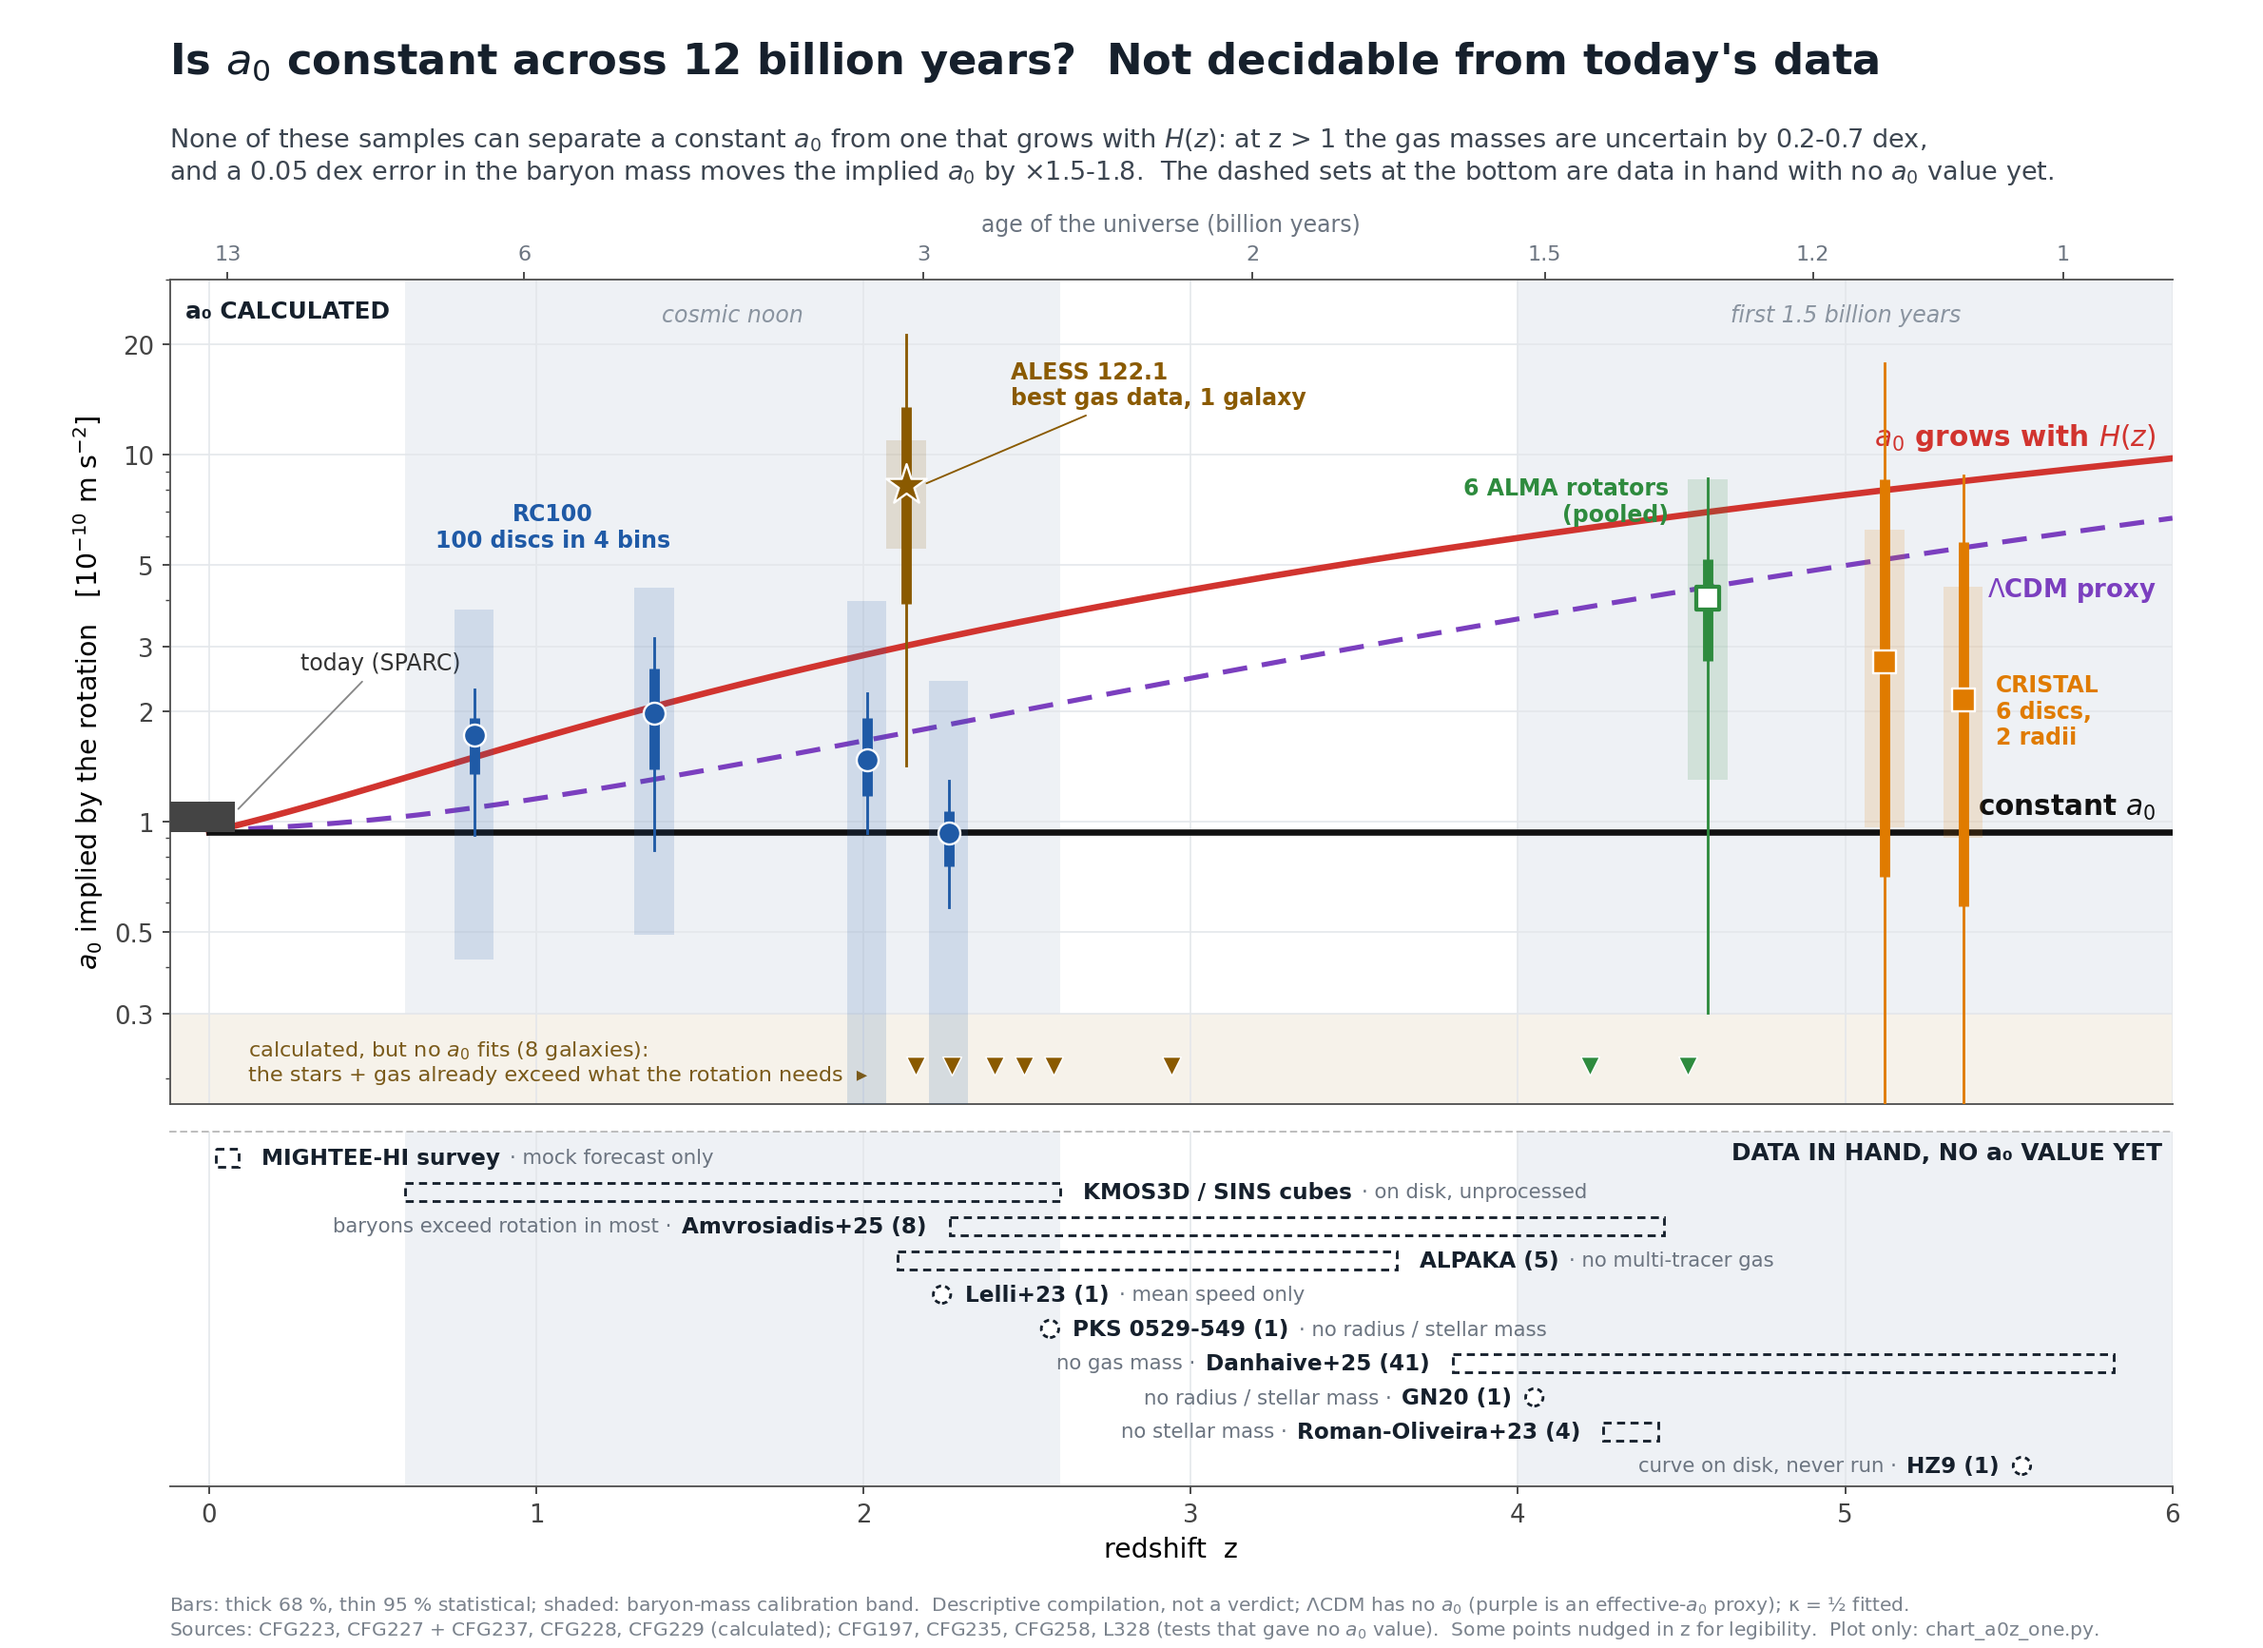
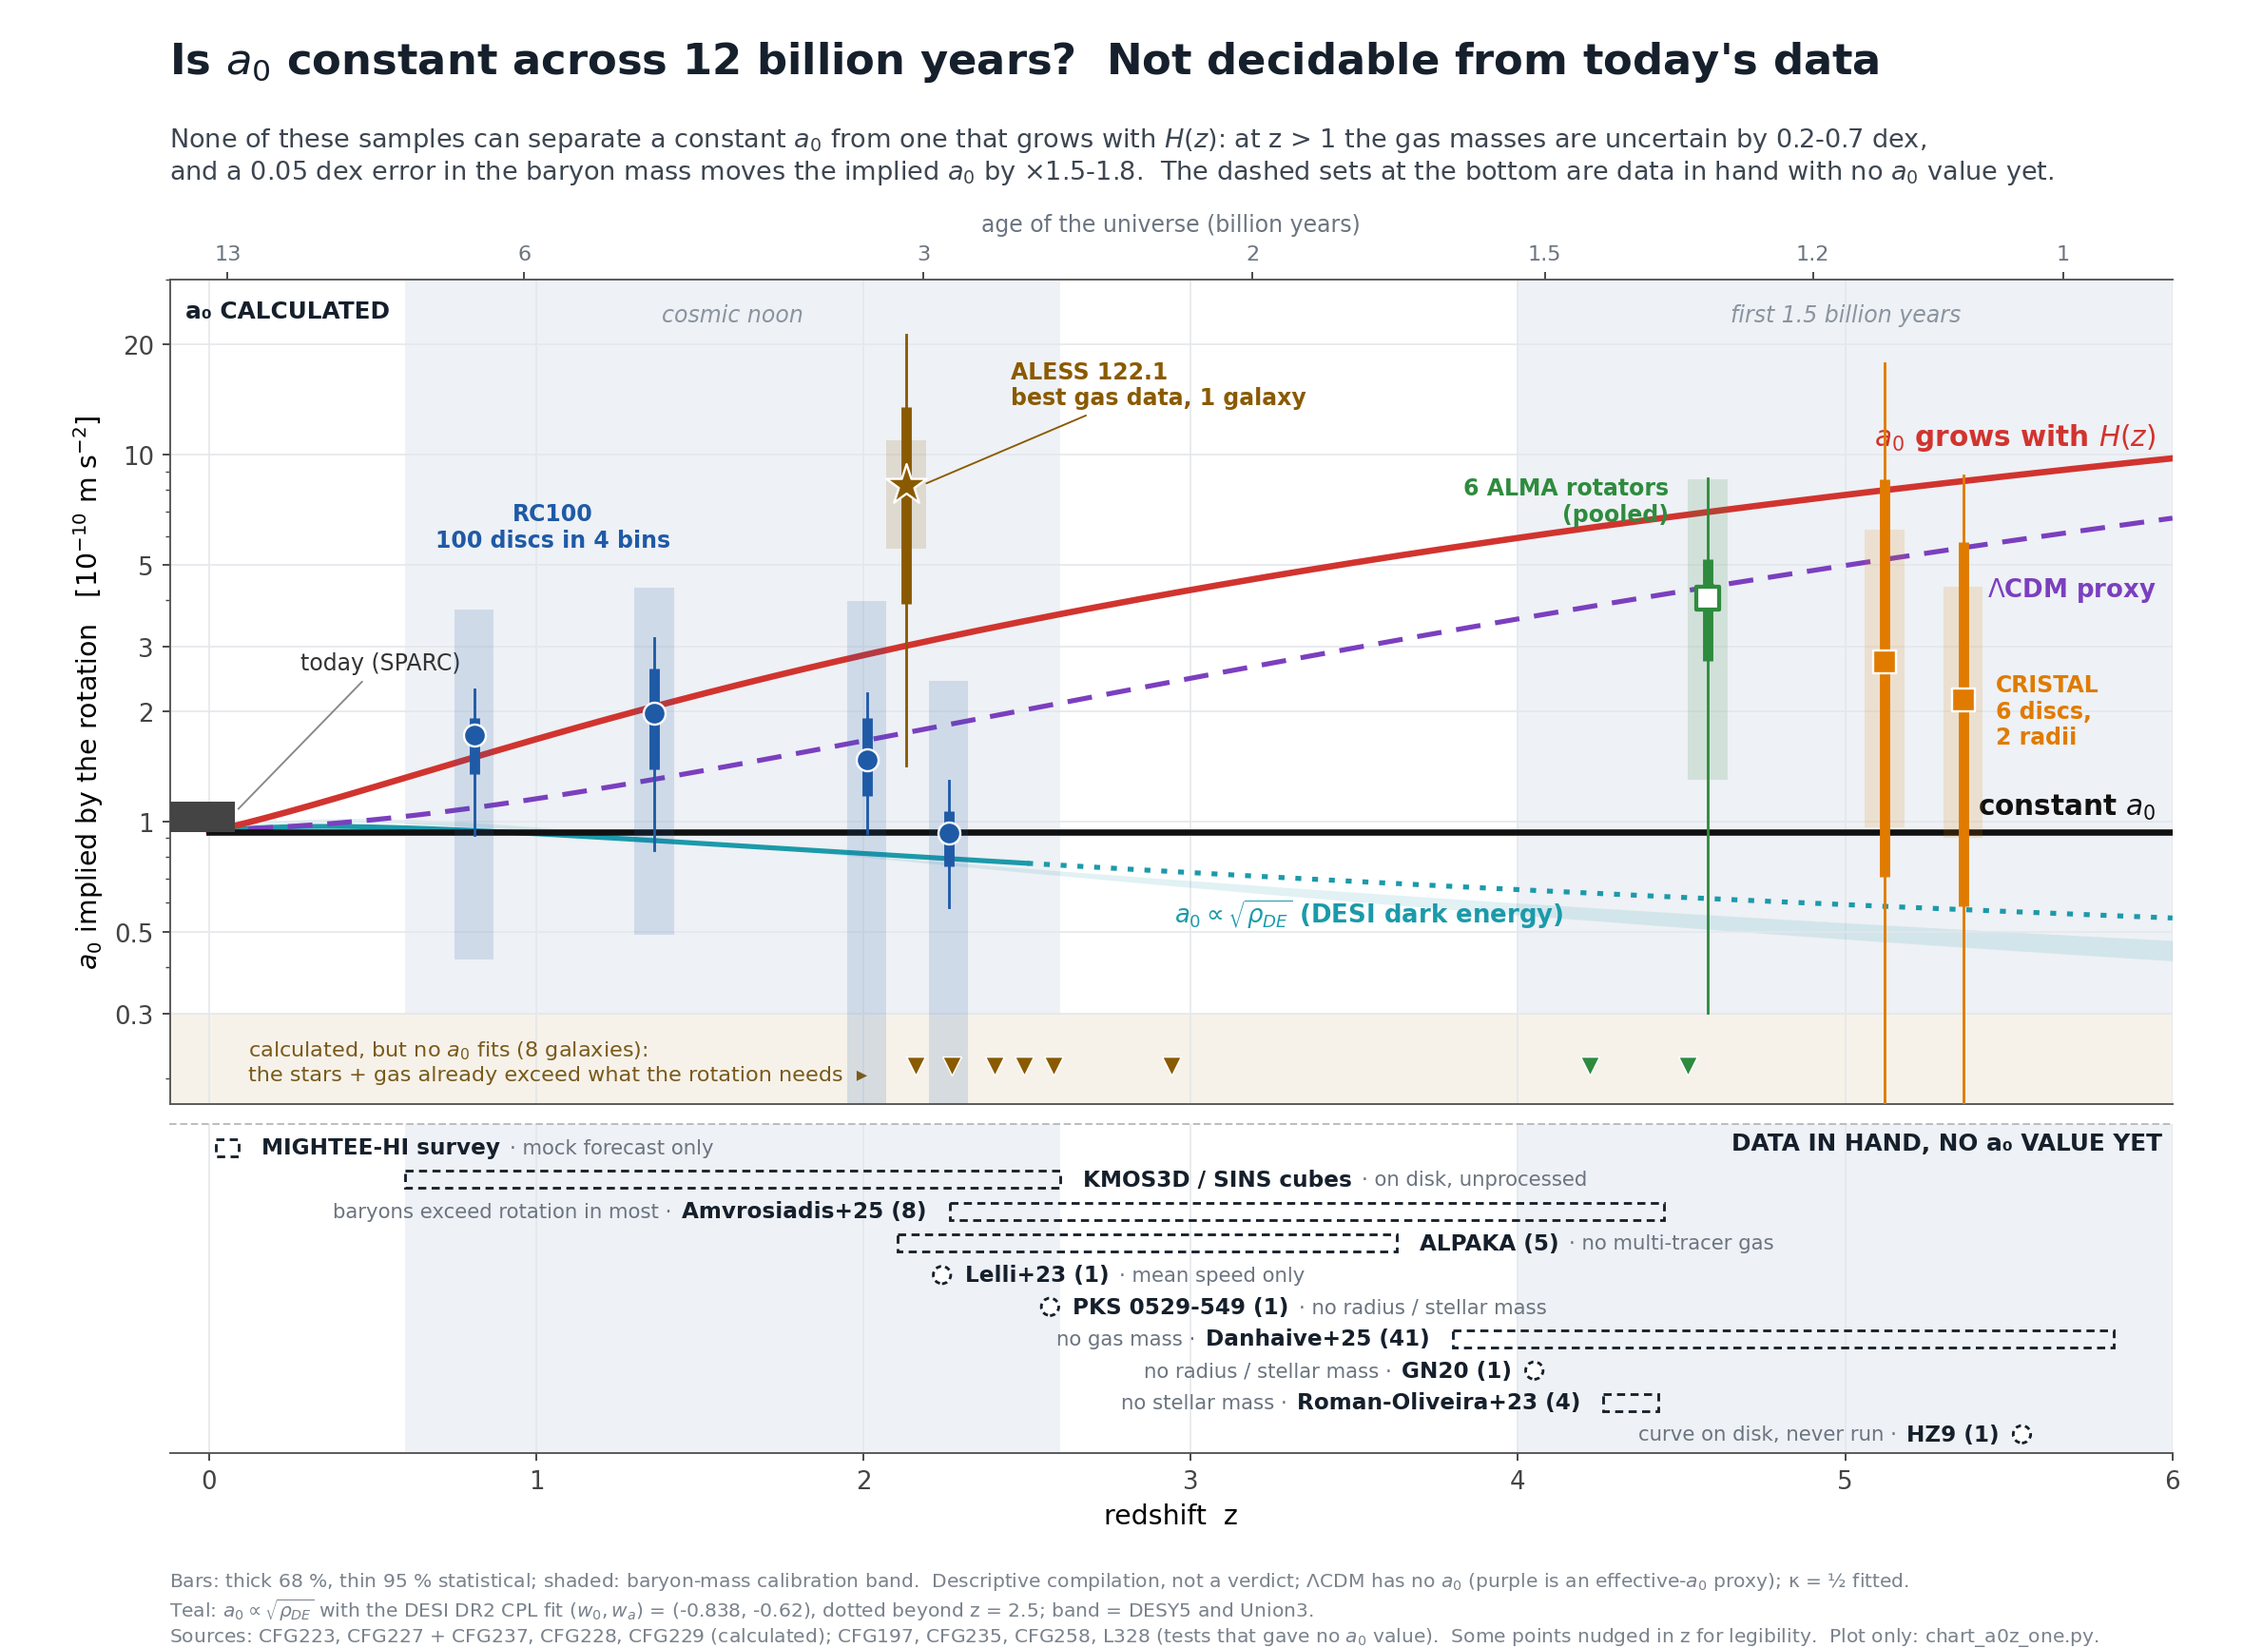
CHART one-chart version: add a0 ~ sqrt(rho_DE) (DESI DR2 CPL from CFG223, dotted beyond z = 2.5, DESY5/Union3 band) as the 09-30 chart drew it; 7/7 checks (DESI curve 0.874 x local at z = 2); plot only

diff --git a/campaign_fresh_gravity/CHART_a0z_rar_z0_5_2026-10-01/chart_a0z_one.py b/campaign_fresh_gravity/CHART_a0z_rar_z0_5_2026-10-01/chart_a0z_one.py
@@ -59,6 +59,7 @@ check("Danhaive gold: 41 discs at z 3.80-5.82", len(dan) == 41 and abs(min(dan) 
 check("Roman-Oliveira with kinematics: 4", len(ro) == 4, f"({len(ro)}: {[i for i, _ in ro]})")
 check("Amvrosiadis without an a0: 8", len(amv) == 8, f"({len(amv)})")
 nr = [o for o in ("ALPAKA15", "ALPAKA18", "ALPAKA19", "ALPAKA20", "ALPAKA22", "SINS_BX610", "VC5110377875", "SPT0418-47") if pts[o]["no_root"] == "1"]
+check("DESI CPL curve is nearly flat: about 0.87 x local at z = 2", abs(np.interp(2.0, Zc, cur["M-DEC"]) - 0.87) < 0.01, f"({np.interp(2.0, Zc, cur['M-DEC']):.3f})")
 check("eight calculated galaxies with no a0 solution (6 class M + 2 ALMA)", len(nr) == 8, f"({len(nr)})")
 for lab, z0, z1, note in TODO: P(f"  no-a0-yet row: {lab:28s} z {z0:.2f}-{z1:.2f}  {note}")
 
@@ -66,12 +67,12 @@ for lab, z0, z1, note in TODO: P(f"  no-a0-yet row: {lab:28s} z {z0:.2f}-{z1:.2f
 plt.rcParams.update({"font.family": "DejaVu Sans", "font.size": 11, "axes.spines.top": False, "axes.spines.right": False,
                      "axes.edgecolor": "#555", "xtick.color": "#444", "ytick.color": "#444"})
 INK, MUTED = "#16202c", "#6b7480"
-LAW = {"FLAT": "#111111", "H(z)": "#d1342f", "PROXY": "#7b3fbf"}
+LAW = {"FLAT": "#111111", "H(z)": "#d1342f", "PROXY": "#7b3fbf", "M-DEC": "#1b9aaa"}
 COL = {"RC100": "#1f5aa6", "CRISTAL": "#e07b00", "M": "#8a5a00", "ALMA": "#2e8b3e"}
 
 fig = plt.figure(figsize=(14, 10.2), dpi=170)
 ax = fig.add_axes([0.075, 0.33, 0.885, 0.50])
-sx = fig.add_axes([0.075, 0.098, 0.885, 0.215], sharex=ax)
+sx = fig.add_axes([0.075, 0.118, 0.885, 0.2], sharex=ax)
 XLO, XHI, YLO, YHI = -0.12, 6.0, 0.17, 30
 
 # ---------------- main: calculated a0 ----------------
@@ -81,6 +82,13 @@ for x0, x1, t in ((0.6, 2.6, "cosmic noon"), (4.0, 6.0, "first 1.5 billion years
     ax.text((x0 + x1) / 2, 23, t, ha="center", color="#8a94a0", fontsize=10, style="italic")
 ax.axhspan(YLO, 0.30, color="#f6f2ea", zorder=0, lw=0)
 m = Zc <= XHI
+lo_b = np.minimum(np.array(cur["DESI DESY5"]), np.array(cur["DESI Union3"]))[m] * U
+hi_b = np.maximum(np.array(cur["DESI DESY5"]), np.array(cur["DESI Union3"]))[m] * U
+ax.fill_between(Zc[m], lo_b, hi_b, color=LAW["M-DEC"], alpha=0.13, lw=0, zorder=1)
+md = np.array(cur["M-DEC"])[m] * U; zz = Zc[m]
+ax.plot(zz[zz <= 2.5], md[zz <= 2.5], color=LAW["M-DEC"], lw=2.2, zorder=2)
+ax.plot(zz[zz >= 2.5], md[zz >= 2.5], color=LAW["M-DEC"], lw=2.2, ls=(0, (1.2, 2.2)), zorder=2)
+ax.text(2.95, 0.53, r"$a_0 \propto \sqrt{\rho_{DE}}$ (DESI dark energy)", color=LAW["M-DEC"], fontsize=11, ha="left", fontweight="bold")
 for k, kw in (("PROXY", dict(lw=2.2, ls=(0, (5, 3)))), ("H(z)", dict(lw=2.8)), ("FLAT", dict(lw=2.8))):
     ax.plot(Zc[m], np.array(cur[k])[m] * U, color=LAW[k], zorder=2, **kw)
 ax.text(5.95, 10.6, r"$a_0$ grows with $H(z)$", color=LAW["H(z)"], fontsize=12.5, ha="right", fontweight="bold")
@@ -152,8 +160,8 @@ fig.text(0.075, 0.955, "Is $a_0$ constant across 12 billion years?  Not decidabl
 fig.text(0.075, 0.905, "None of these samples can separate a constant $a_0$ from one that grows with $H(z)$: at z > 1 the gas masses are uncertain by 0.2-0.7 dex,\n"
          "and a 0.05 dex error in the baryon mass moves the implied $a_0$ by ×1.5-1.8.  The dashed sets at the bottom are data in hand with no $a_0$ value yet.",
          fontsize=11.5, color="#3d4651", va="center")
-fig.text(0.075, 0.008, "Bars: thick 68 %, thin 95 % statistical; shaded: baryon-mass calibration band.  Descriptive compilation, not a verdict; "
-         "ΛCDM has no $a_0$ (purple is an effective-$a_0$ proxy); κ = ½ fitted.\nSources: CFG223, CFG227 + CFG237, CFG228, CFG229 (calculated); "
+fig.text(0.075, 0.004, "Bars: thick 68 %, thin 95 % statistical; shaded: baryon-mass calibration band.  Descriptive compilation, not a verdict; "
+         "ΛCDM has no $a_0$ (purple is an effective-$a_0$ proxy); κ = ½ fitted.\nTeal: $a_0 \\propto \\sqrt{\\rho_{DE}}$ with the DESI DR2 CPL fit ($w_0, w_a$) = (-0.838, -0.62), dotted beyond z = 2.5; band = DESY5 and Union3.\nSources: CFG223, CFG227 + CFG237, CFG228, CFG229 (calculated); "
          "CFG197, CFG235, CFG258, L328 (tests that gave no $a_0$ value).  Some points nudged in z for legibility.  Plot only: chart_a0z_one.py.",
          fontsize=8.6, color="#7a828c")
 fig.savefig(os.path.join(HERE, "chart_a0z_one_2026-10-01.png"), dpi=170)

diff --git a/campaign_fresh_gravity/CHART_a0z_rar_z0_5_2026-10-01/README.md b/campaign_fresh_gravity/CHART_a0z_rar_z0_5_2026-10-01/README.md
@@ -23,4 +23,4 @@ The headline sentence on the figure is the record's: at the declared calibration
 `python3 campaign_fresh_gravity/CHART_a0z_rar_z0_5_2026-10-01/chart_a0z_rar.py` (a few seconds).
 
 ## One-chart version (`chart_a0z_one.py` → `chart_a0z_one_2026-10-01.png`)
-Requested by the owner as a single figure. Top: the calculated implied-a₀ points (RC100 quartiles, ALESS 122.1, ALPINE6 pooled, CRISTAL independent route) against a constant a₀, a₀ ∝ H(z) and the ΛCDM effective-a₀ proxy; the eight calculated galaxies with no a₀ solution as floor triangles. Bottom strip: data sets in hand with **no a₀ value yet**, placed by redshift. Their z ranges and counts are read from the data files (Danhaive+25 gold 41 at z 3.80–5.82; Roman-Oliveira+23 with kinematics 4; ALPAKA 13/23/24/25/28; Amvrosiadis+25 without ALESS 122.1, 8). What each lacks is quoted from CFG227 ("Listed, no point"), CFG237, CFG258 and L328. Several of these were TESTED against the laws (CFG197 floor bounds, CFG235 break search, L328 dispersion floor) without producing an a₀ value. The headline wording is the record's; a draft line claiming "every bar reaches both laws" was checked against the numbers and dropped as false (ALESS 122.1's 95 % bar, 1.5–22.6, does not reach the constant line; RC100 Q4's inner band does not reach H(z)). `chart_a0z_one_2026-10-01.out`: 6/6 checks pass.
+Requested by the owner as a single figure. Top: the calculated implied-a₀ points (RC100 quartiles, ALESS 122.1, ALPINE6 pooled, CRISTAL independent route) against a constant a₀, a₀ ∝ H(z), the ΛCDM effective-a₀ proxy and a₀ ∝ √ρ_DE (DESI DR2 CPL, dotted beyond z = 2.5, band DESY5–Union3; added on the owner's request); the eight calculated galaxies with no a₀ solution as floor triangles. Bottom strip: data sets in hand with **no a₀ value yet**, placed by redshift. Their z ranges and counts are read from the data files (Danhaive+25 gold 41 at z 3.80–5.82; Roman-Oliveira+23 with kinematics 4; ALPAKA 13/23/24/25/28; Amvrosiadis+25 without ALESS 122.1, 8). What each lacks is quoted from CFG227 ("Listed, no point"), CFG237, CFG258 and L328. Several of these were TESTED against the laws (CFG197 floor bounds, CFG235 break search, L328 dispersion floor) without producing an a₀ value. The headline wording is the record's; a draft line claiming "every bar reaches both laws" was checked against the numbers and dropped as false (ALESS 122.1's 95 % bar, 1.5–22.6, does not reach the constant line; RC100 Q4's inner band does not reach H(z)). `chart_a0z_one_2026-10-01.out`: 7/7 checks pass (incl. the DESI curve at 0.874 × local at z = 2).
